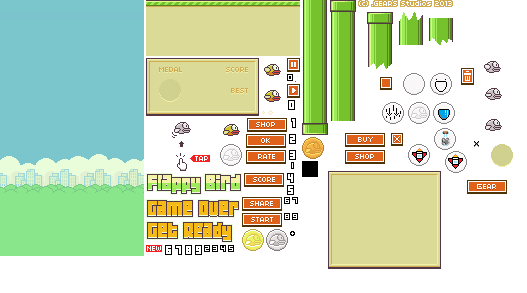
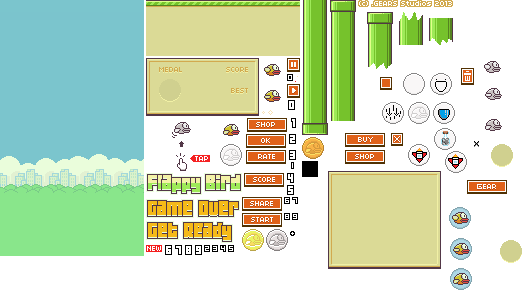
added shield and its functionality

Changed region(s): [[0.8501, 0.7065, 0.9108, 0.8908], [0.9412, 0.7986, 1.0, 0.8908], [0.8501, 0.9215, 0.9108, 1.0]]

diff --git a/src/character.js b/src/character.js
@@ -1,8 +1,10 @@
-import { checkCollision } from "./collisionCheck.js";
+import { checkCollision, resetTimer, stopCheckTimer } from "./collisionCheck.js";
 import { flappyBirdSpriteSheet, gameover, gameOver, gameRunning } from "./main.js";
 import { showPauseModal } from "./pause.js";
 import { checkRocketSpawn, drawRocket, rockets, spawnRocket, updateRocket } from "./rocket.js";
 import { drawBg, drawGround, drawPipes, drawScore, resetPipes, updateGround, updatePipes } from "./sceneCreation.js";
+import { boughtItems, deductBoughtItems, drawPriceFont } from "./shop.js";
+import { slot } from "./slot.js";
 
 const canvas = document.getElementById('main_canvas');
 const ctx = canvas.getContext('2d');
@@ -19,7 +21,10 @@ let lastTime = 0;
 let animationId = null;
 let collidedRocket = null;
 
+let skillInGameLoc = [null, null, null];
+
 const gravity = 500;
+export let upForce = 150;
 
 export function stopGameAnimation() {
     if (animationId) {
@@ -57,7 +62,16 @@ export let player = {
     velocity_y: 0,
     h: 12,
     w: 17,
+    isShield: false,
+    isInvincible: false,
+    isGravity: false,
+    isInvisibility: false,
 }
+
+let shieldTimer = 0;
+let invincibleTimer = 0;
+let gravityTimer = 0;
+let InvisibilityTimer = 0;
 
 const characterAnimation = {
     up: { x: 264, y: 64, w: 17, h: 12 },
@@ -65,10 +79,31 @@ const characterAnimation = {
     down: { x: 223, y: 124, w: 17, h: 12 },
 }
 
+const characterAnimationWithShield = {
+    up: { x: 449, y: 207, w: 22, h: 22 },
+    mid: { x: 450, y: 238, w: 22, h: 22 },
+    down: { x: 450, y: 268, w: 22, h: 22 },
+}
+
+const characterAnimationWithInvincible = {
+    up: { x: 484, y: 61, w: 17, h: 12 },
+    mid: { x: 485, y: 88, w: 17, h: 12 },
+    down: { x: 485, y: 119, w: 17, h: 12 },
+}
+
 export function resetPlayer() {
     player.x = (width / scale / 2) - 8;
     player.y = 95;
     player.velocity_y = 0;
+    player.isShield = false;
+    player.isInvincible = false;
+    player.isGravity = false;
+    player.isInvisibility = false;
+    shieldTimer = 0;
+    invincibleTimer = 0;
+    InvisibilityTimer = 0;
+    gravityTimer = 0;
+    resetTimer();
 }
 
 export function setCollidedRocket(rocket) {
@@ -119,6 +154,74 @@ function animateCharacter() {
     }
 }
 
+function animateCharacterWithShield() {
+    let sprite;
+    if (player.velocity_y < -50) {
+        sprite = characterAnimationWithShield["up"];
+        ctx.save();
+        ctx.translate(player.x + sprite.w / 2, player.y + sprite.h / 2);
+        ctx.rotate(-10 * Math.PI / 180);
+        ctx.drawImage(
+            flappyBirdSpriteSheet,
+            sprite.x, sprite.y, sprite.w, sprite.h,
+            -sprite.w / 2, -sprite.h / 2, sprite.w, sprite.h
+        );
+        ctx.restore();
+    }
+    else if (player.velocity_y > 50) {
+        sprite = characterAnimationWithShield["mid"];
+        ctx.save();
+        ctx.translate(player.x + sprite.w / 2, player.y + sprite.h / 2);
+        ctx.rotate(10 * Math.PI / 180);
+        ctx.drawImage(
+            flappyBirdSpriteSheet,
+            sprite.x, sprite.y, sprite.w, sprite.h,
+            -sprite.w / 2, -sprite.h / 2, sprite.w, sprite.h
+        );
+        ctx.restore();
+    } else {
+        sprite = characterAnimationWithShield["down"];
+        ctx.save();
+        ctx.translate(player.x + sprite.w / 2, player.y + sprite.h / 2);
+        ctx.rotate(-10 * Math.PI / 180);
+        ctx.drawImage(
+            flappyBirdSpriteSheet,
+            sprite.x, sprite.y, sprite.w, sprite.h,
+            -sprite.w / 2, -sprite.h / 2, sprite.w, sprite.h
+        );
+        ctx.restore();
+    }
+}
+
+function drawSlotsInGame() {
+    let currentY = 40;
+    for (let i = 0; i < slot.length; i++) {
+        const skill = slot[i];
+        if (skill === null) continue;
+
+        ctx.drawImage(
+            flappyBirdSpriteSheet,
+            skill.x, skill.y, skill.w, skill.h,
+            4, currentY, skill.w, skill.h
+        );
+
+        ctx.drawImage(
+            flappyBirdSpriteSheet,
+            474, 141, 5, 6,
+            4, currentY + 24, 5, 6
+        );
+        let quantity = boughtItems[skill.name.replace("Slot", "")];
+        if (!quantity) {
+            quantity = 0;
+        }
+        drawPriceFont(quantity.toString(), 10, currentY + 24.5);
+
+        skillInGameLoc[i] = { x: 4, y: currentY, w: skill.w, h: skill.h, name: skill.name.replace("Slot", "") };
+
+        currentY += 40;
+    }
+}
+
 export function gameLoop(currentTime) {
     ctx.clearRect(0, 0, width / scale, height / scale);
 
@@ -136,7 +239,12 @@ export function gameLoop(currentTime) {
 
     drawGround();
 
-    animateCharacter();
+    if (player.isShield) {
+        animateCharacterWithShield();
+    }
+    else {
+        animateCharacter();
+    }
 
     if (!gameover) {
         drawScore();
@@ -151,6 +259,7 @@ export function gameLoop(currentTime) {
         updatePipes(delta);
         updateGround(delta);
         updateRocket(delta);
+        drawSlotsInGame();
 
         const rocket = checkRocketSpawn();
 
@@ -174,7 +283,7 @@ export function gameLoop(currentTime) {
         }
 
     }
-    const collided = checkCollision(player);
+    const collided = checkCollision(delta);
 
     if (collided) {
         gameOver();
@@ -186,3 +295,22 @@ export function gameLoop(currentTime) {
 resizeCanvas();
 
 window.addEventListener('resize', resizeCanvas);
+
+export function isClickOnInGameSlot(mouseX, mouseY) {
+    for (let i = 0; i < skillInGameLoc.length; i++) {
+        if (skillInGameLoc[i] === null) continue;
+        const skill = skillInGameLoc[i];
+        const check = (
+            mouseX >= skill.x &&
+            mouseX <= skill.x + skill.w &&
+            mouseY >= skill.y &&
+            mouseY <= skill.y + skill.h
+        );
+        if (check) {
+            const canDeduct = deductBoughtItems(skill.name);
+            if (skill.name === "Shield" && canDeduct) player.isShield = true;
+            return true;
+        }
+    }
+    return false;
+}

diff --git a/src/collisionCheck.js b/src/collisionCheck.js
@@ -3,9 +3,29 @@ import { gameRunning } from "./main.js";
 import { drawBlast, rockets } from "./rocket.js";
 import { pipeGap, pipes, pipeSprite } from "./sceneCreation.js";
 
-export function checkCollision(player) {
+
+export let stopCheckTimer = 0.001
+let coyoteTimer = 0.3;
+
+export function resetTimer() {
+    stopCheckTimer = 0;
+}
+
+export function checkCollision(delta) {
+    if (stopCheckTimer !== 0) {
+        if (stopCheckTimer < coyoteTimer) stopCheckTimer += delta;
+        else {
+            stopCheckTimer = 0;
+        }
+        return false;
+    }
     const groundY = height / scale - 50;
     if (player.y + player.h >= groundY) {
+        if (player.isShield) {
+            player.isShield = false;
+            stopCheckTimer += delta
+            return false;
+        }
         return true;
     }
     for (let pipe of pipes) {
@@ -13,9 +33,21 @@ export function checkCollision(player) {
         const collidingWithBottomPipe = isCollidingWithBottomPipe(pipe);
 
         if (collidingWithTopPipe) {
+            if (player.isShield) {
+                player.isShield = false;
+                stopCheckTimer += delta;
+                coyoteTimer = 0.5
+                return false;
+            }
             return true;
         }
         if (collidingWithBottomPipe) {
+            if (player.isShield) {
+                player.isShield = false;
+                stopCheckTimer += delta;
+                coyoteTimer = 0.5;
+                return false;
+            }
             return true;
         }
     }
@@ -23,6 +55,11 @@ export function checkCollision(player) {
         const collidingWithRocket = isCollidingWithRocket(rocket);
 
         if (collidingWithRocket) {
+            if (player.isShield) {
+                player.isShield = false;
+                stopCheckTimer+=delta;
+                return false;
+            }
             drawBlast(rocket);
             setCollidedRocket(rocket)
             return true;

diff --git a/src/main.js b/src/main.js
@@ -1,4 +1,4 @@
-import { gameLoop, player, resetCollidedRocket, resetPlayer, scale, stopGameAnimation, width } from "./character.js";
+import { gameLoop, isClickOnInGameSlot, player, resetCollidedRocket, resetPlayer, scale, stopGameAnimation, upForce, width } from "./character.js";
 import { drawLoadoutButton, isClickOnDeleteButton, isClickOnLoadoutButton, isClickOnLoadoutCloseButton, isClickOnTopOfSkill, isShowLoadout, showLoadoutPage, toggleLoadoutPage } from "./loadout.js";
 import { isClickOnPauseButton } from "./pause.js";
 import { drawRetryPage, isClickedOnOKButton } from "./retryPage.js";
@@ -287,10 +287,13 @@ canvas.addEventListener('click', (e) => {
     if (isClickOnTopOfSkill(mousePos.x, mousePos.y) && isShowLoadout && !isShowShopPage && !gameRunning && !gameover) {
         return;
     }
-    if(isClickOnDeleteButton(mousePos.x,mousePos.y) && isShowLoadout && !isShowShopPage && !gameRunning && !gameover){
+    if (isClickOnDeleteButton(mousePos.x, mousePos.y) && isShowLoadout && !isShowShopPage && !gameRunning && !gameover) {
         return;
     }
     if (isClickOnBuyButton(mousePos.x, mousePos.y) && isShowShopPage && !isShowLoadout && !gameRunning && !gameover) {
+        return;
+    }
+    if (isClickOnInGameSlot(mousePos.x, mousePos.y) && gameRunning && !gameover && !isShowLoadout && !isShowShopPage) {
         return;
     }
     if (isClickedOnOKButton(mousePos.x, mousePos.y) && !gameRunning && !isShowShopPage && !isShowLoadout) {
@@ -303,7 +306,7 @@ canvas.addEventListener('click', (e) => {
             firstTapped = true;
             toggleScene(gameRunning)
         }
-        player.velocity_y = -150;
+        player.velocity_y = -upForce;
     }
 })
 
@@ -313,6 +316,6 @@ canvas.addEventListener("keydown", (e) => {
             firstTapped = true;
             toggleScene(gameRunning);
         }
-        player.velocity_y = -150;
+        player.velocity_y = -upForce;
     }
 })

diff --git a/src/shop.js b/src/shop.js
@@ -5,7 +5,7 @@ import { deductCurrency, getCurrency } from "./wallet.js";
 const canvas = document.getElementById("main_canvas");
 const ctx = canvas.getContext('2d');
 
-const boughtItems = {};
+export const boughtItems = {};
 
 export let isShowShopPage = false;
 let scrollOffset = 0;
@@ -76,8 +76,12 @@ export function setBoughtItemsFromLocalToCode() {
 }
 
 export function deductBoughtItems(item) {
-    boughtItems[item]--;
-    storeBoughtItemsInLocalStorage();
+    if (boughtItems[item] - 1 > -0) {
+        boughtItems[item]--;
+        storeBoughtItemsInLocalStorage();
+        return true;
+    }
+    return false;
 }
 
 export function creditBoughtItems(item) {
@@ -351,12 +355,16 @@ export function isClickOnBuyButton(mouseX, mouseY) {
         )
         if (check) {
             if (boughtItems[buyButton]) {
-                creditBoughtItems(buyButton);
-                deductCurrency(items[buyButton].price);
+                const canDetuct = deductCurrency(items[buyButton].price);
+                if (canDetuct) {
+                    creditBoughtItems(buyButton);
+                }
             } else {
-                boughtItems[buyButton] = 1;
-                deductCurrency(items[buyButton].price);
-                storeBoughtItemsInLocalStorage();
+                const canDetuct = deductCurrency(items[buyButton].price);
+                if (canDetuct) {
+                    boughtItems[buyButton] = 1;
+                    storeBoughtItemsInLocalStorage();
+                }
             }
             console.log(boughtItems);
             return true;

diff --git a/src/wallet.js b/src/wallet.js
@@ -15,6 +15,10 @@ export function getCurrency() {
 
 export function deductCurrency(price) {
     let currency = parseInt(localStorage.getItem("currency"));
-    currency -= price;
-    localStorage.setItem("currency", currency);
+    if (currency - price >= 0) {
+        currency -= price;
+        localStorage.setItem("currency", currency);
+        return true;
+    }
+    return false;
 }
